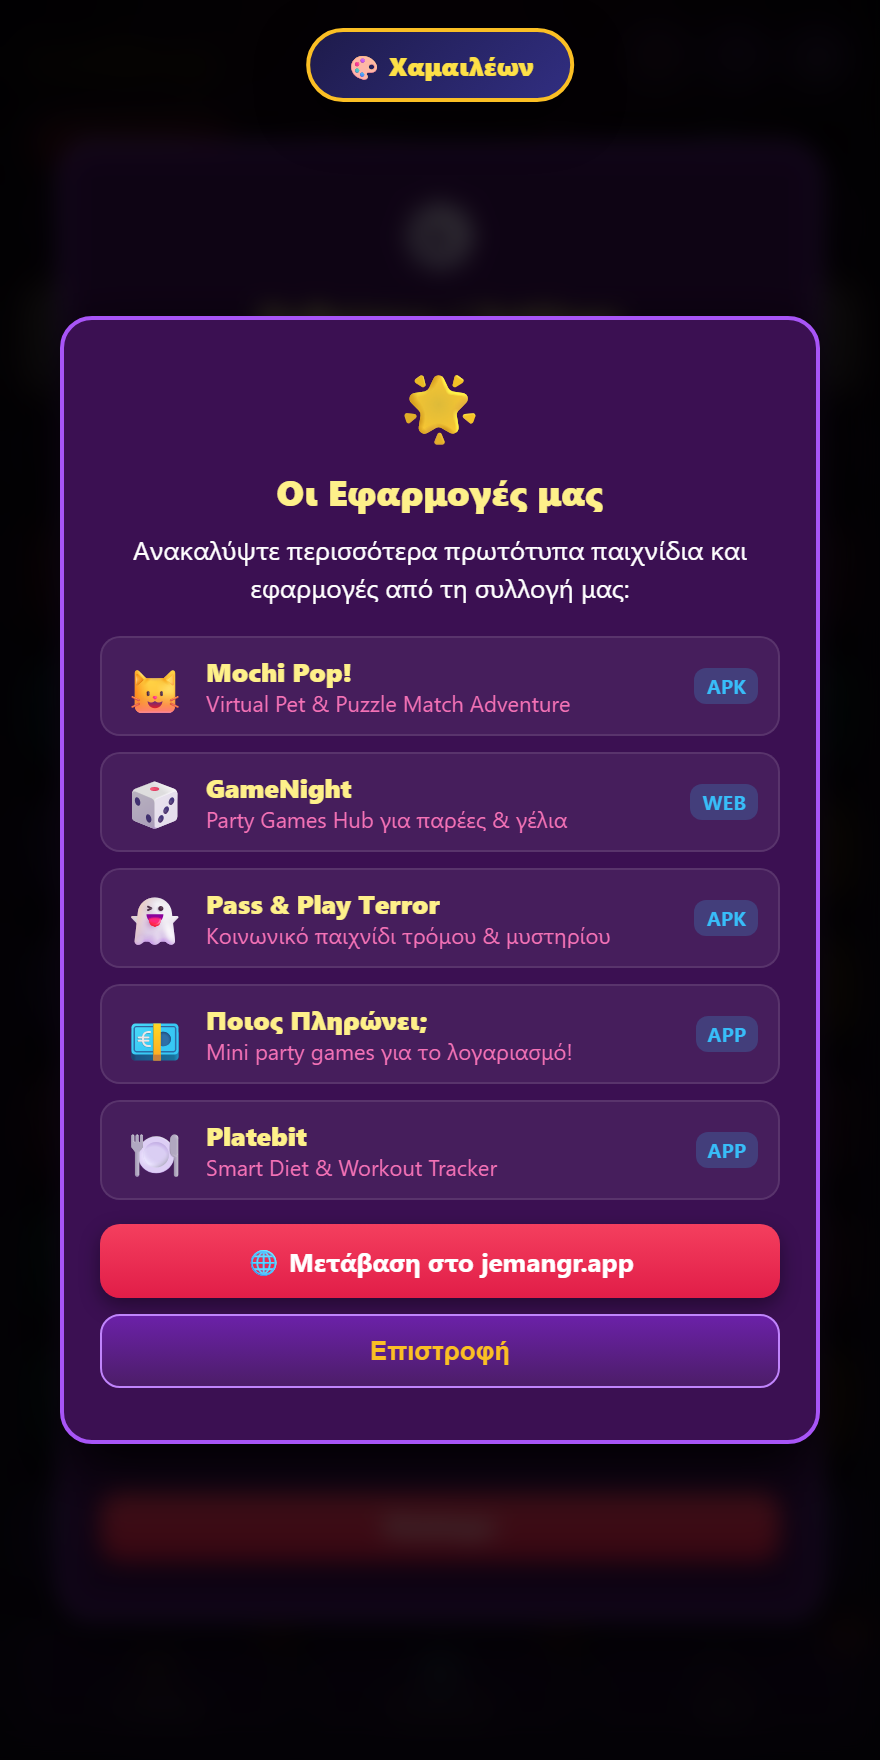
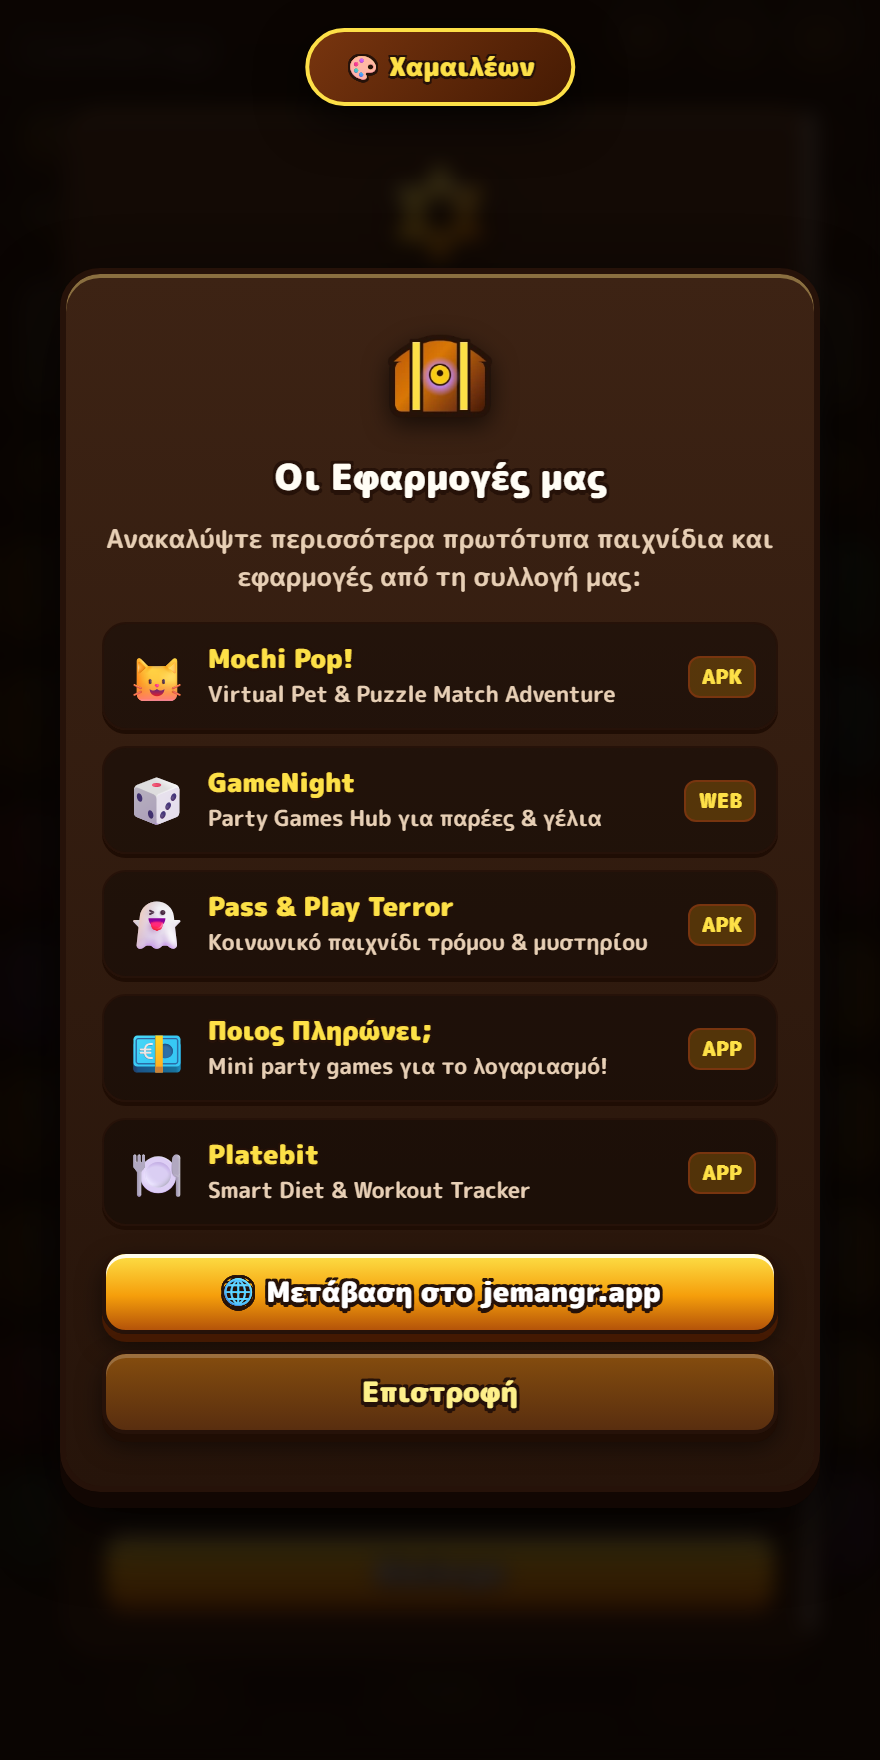
Release v1.3.0: Bouncy Cartoon 3D UI overhaul, screenshots and version metadata

diff --git a/README.md b/README.md
@@ -26,7 +26,7 @@
   <a href="https://jemangr.app">
     <img src="https://img.shields.io/badge/🚀_Portfolio-jemangr.app-orange?style=for-the-badge" alt="jemangr.app" />
   </a>
-  <img src="https://img.shields.io/badge/Version-v1.2.0-brightgreen?style=for-the-badge" alt="Version v1.2.0" />
+  <img src="https://img.shields.io/badge/Version-v1.3.0-brightgreen?style=for-the-badge" alt="Version v1.3.0" />
   <img src="https://img.shields.io/badge/Package-app.jemangr.lexidrop-blue?style=for-the-badge" alt="Package app.jemangr.lexidrop" />
   <img src="https://img.shields.io/badge/License-All%20Rights%20Reserved-red?style=for-the-badge" alt="License" />
 </p>
